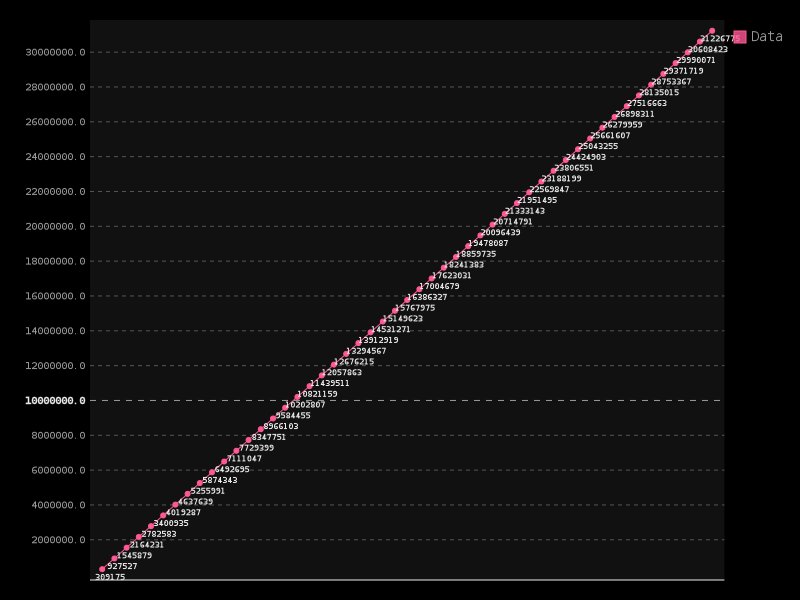
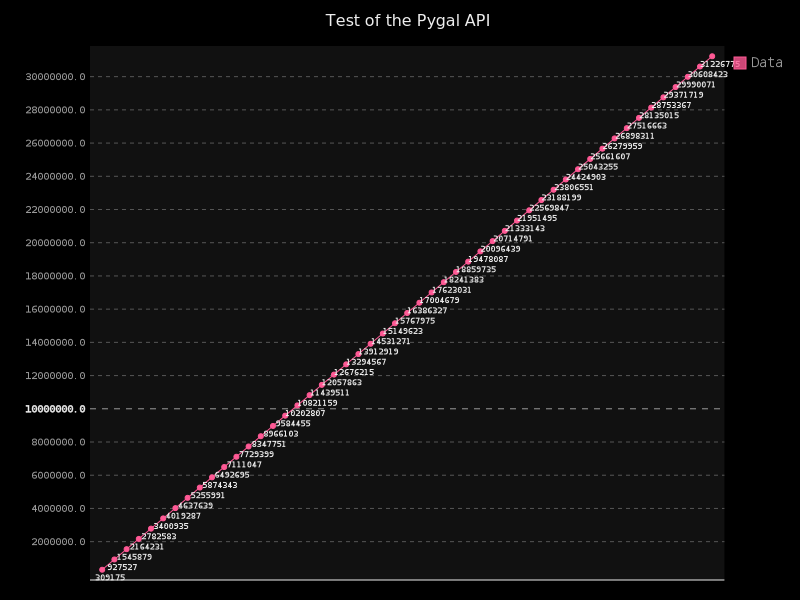
update chart

diff --git a/pygal/bigchart.py b/pygal/bigchart.py
@@ -32,7 +32,7 @@ if __name__ == "__main__":
    # Init the table
    print "Init the data table (size %d)" % _DATA_SIZE
    data = list(xrange(_DATA_SIZE))
-   chart = pygal.Line()
+   chart = pygal.Line(title = "Test of the Pygal API")
 
    print "Let's start..."
    t0 = time()
